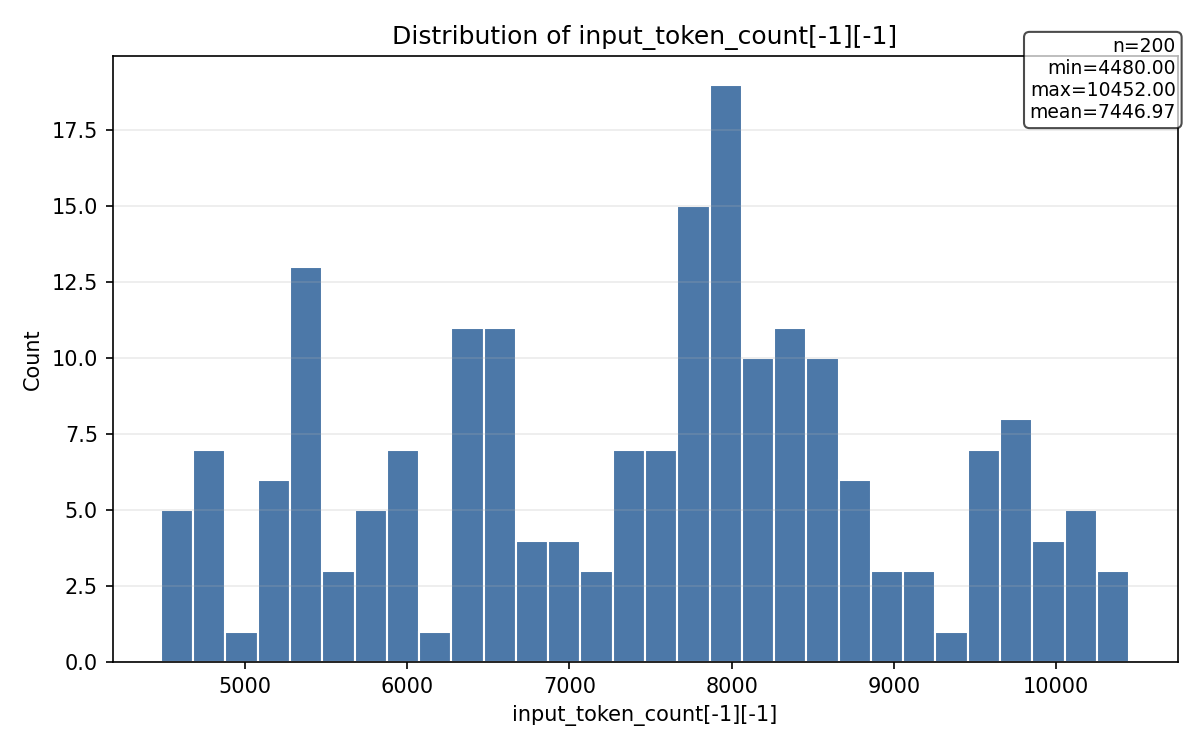
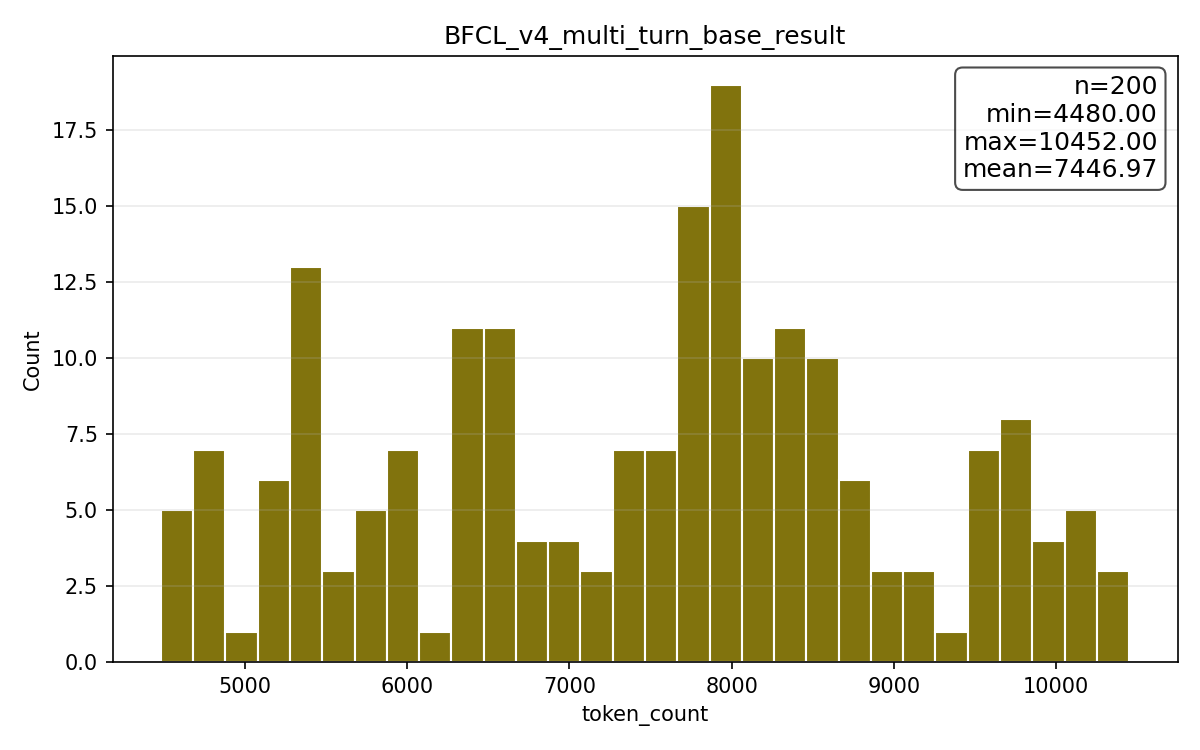
新token圖

diff --git a/berkeley-function-call-leaderboard/bfcl_eval/scripts/stats_last_column_last_value.py b/berkeley-function-call-leaderboard/bfcl_eval/scripts/stats_last_column_last_value.py
@@ -148,15 +148,15 @@ def main() -> int:
 
         # Create histogram
         plt.figure(figsize=(8, 5))
-        plt.hist(values, bins=max(1, args.bins), color="#4C78A8", edgecolor="white")
-        plt.xlabel("input_token_count[-1][-1]")
+        plt.hist(values, bins=max(1, args.bins), color="#81730DFF", edgecolor="white")
+        plt.xlabel("token_count")
         plt.ylabel("Count")
         plt.grid(True, axis="y", alpha=0.25)
-        title = args.title or "Distribution of input_token_count[-1][-1]"
+        title = args.title or args.json_path[:-5].split("\\")[-1]
         plt.title(title)
         # Annotate basic stats in the plot
         text = f"n={len(values)}\nmin={v_min:.2f}\nmax={v_max:.2f}\nmean={v_mean:.2f}"
-        plt.gcf().text(0.98, 0.95, text, ha="right", va="top", fontsize=9, bbox=dict(boxstyle="round", facecolor="white", alpha=0.7))
+        plt.gcf().text(0.965, 0.9, text, ha="right", va="top", fontsize=12, bbox=dict(boxstyle="round", facecolor="white", alpha=0.7))
         plt.tight_layout()
         plt.savefig(out_path, dpi=150)
         print(f"Histogram saved to: {out_path}")
